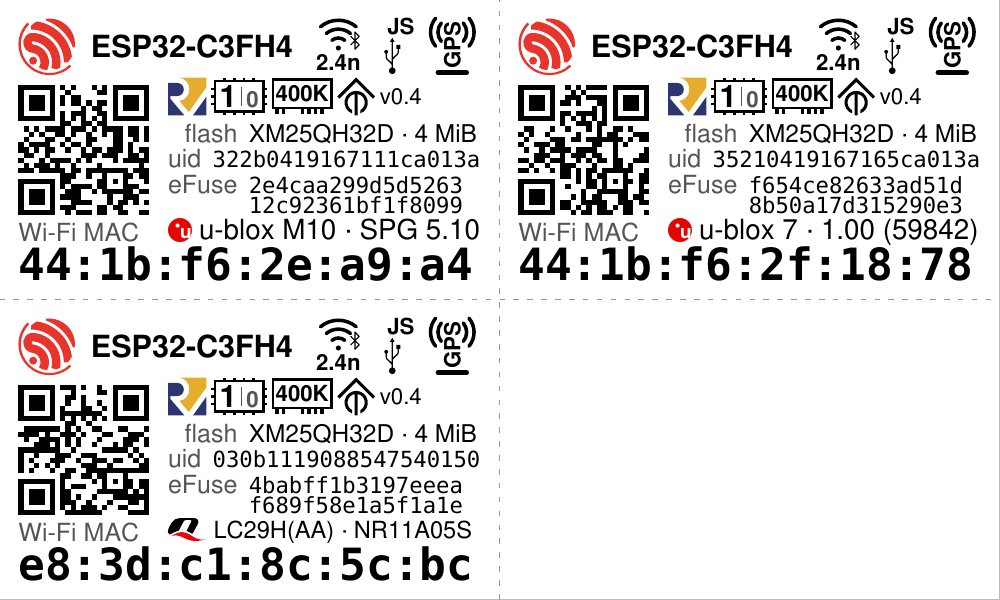
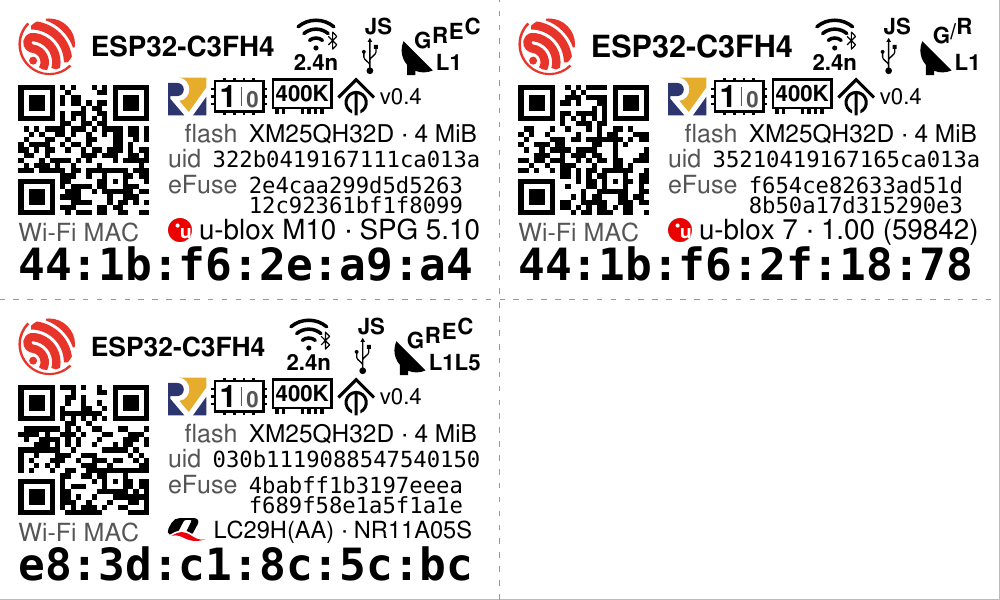
esp32_gps_micro: the dish and its satellites in place of the GPS antenna
The GPS node's header glyph is now the GNSS dish with what the receiver
type tracks: G/R L1 for the u-blox 7 (GPS or GLONASS, never both),
GREC L1 for the M8 and M10, GREC L1L5 for the dual-band LC29H(AA). Each
from its maker's datasheet or product page, quoted in GNSS.

Changed region(s): [[0.093, 0.51, 0.496, 0.63], [0.093, 0.03, 0.496, 0.15], [0.806, 0.03, 0.992, 0.15]]

diff --git a/src/rpi_hwid/esp32_gps_micro.py b/src/rpi_hwid/esp32_gps_micro.py
@@ -9,9 +9,11 @@ MAC in the QR and along the foot, the flash, and both the node's ids --
 with the receiver added, as the 433 MHz node's label adds its radio
 (``rpi_hwid.esp32_433_micro``):
 
-  * an antenna whose mast is "GPS", after the Wi-Fi and USB glyphs. Not a
-    band: the u-blox parts here are L1 receivers but the LC29H(AA) hears
-    L1 and L5, and neither "L1L5" nor "1575" fits the mast;
+  * a satellite dish after the Wi-Fi and USB glyphs, with the
+    constellations the receiver tracks floating above it like satellites
+    and its band at its foot (``micro.glyph_gnss``): "GREC" over "L1" for
+    the M10, "G/R" for the u-blox 7, which tracks GPS or GLONASS but never
+    both, and "GREC" over "L1L5" for the dual-band LC29H(AA);
   * under the ids, a line naming the receiver: its maker's mark, then the
     model and the firmware it reports: "[u-blox] u-blox M10 · SPG 5.10",
     "[Quectel] LC29H(AA) · LC29HAANR11A05S".
@@ -23,6 +25,14 @@ no serial number to print, and the board it sits on is not read: a
 MAX-M10S reports itself as an M10 (its MON-VER carries no MOD= extension),
 so the label names the receiver, never the board.
 
+The dish's constellations and band are not read: the node's firmware does
+not relay the GNSS list a u-blox receiver's MON-VER carries, and the LC29H
+says nothing of it. They are the receiver type's, from its maker's own
+datasheet or product page (``GNSS``, each with its source), and only the
+global constellations are drawn (G GPS, R GLONASS, E Galileo, C BeiDou);
+the regional and augmentation systems (QZSS, NavIC, SBAS) are left to
+the sources, as there is no sky for six letters.
+
 An ESP32 that was never asked about a receiver is not a GPS node, and gets
 only the plain label. One that was asked and has not found its receiver
 yet likewise. One whose read failed is an error that names the host and
@@ -32,6 +42,7 @@ what to do.
 from __future__ import annotations
 
 import dataclasses
+from dataclasses import dataclass
 from typing import TYPE_CHECKING, Any
 
 from reportlab.lib.units import mm
@@ -47,11 +58,46 @@ KIND = "esp32-gps"
 # kinds are printed (rpi_hwid.micro.sticker_rows).
 REPLACES = esp32_micro.KIND
 
-BAND = "GPS"
 
 # The firmware's name for each receiver type (GpsModule) -> its maker.
 MAKER = {"ublox7": "u-blox", "m8": "u-blox", "m10": "u-blox", "lc29h": "Quectel"}
 MAKER_MARK = {"u-blox": "u-blox.png", "Quectel": "quectel.svg"}
+
+
+
+@dataclass(frozen=True)
+class Gnss:
+    """What a receiver type tracks, for the dish: RINEX letters, its band,
+    and where that is said."""
+
+    letters: str
+    band: str
+    source: str
+
+
+# The firmware's receiver types (GpsModule) -> what they track. Each from the
+# maker's own document, quoted, fetched 2026-10-08.
+GNSS = {
+    # NEO-7 data sheet, UBX-13003830 - R07, 1.1: "the u-blox 7 GNSS (GPS,
+    # GLONASS, QZSS and SBAS) engine"; 1.5.2: "GLONASS and GPS signals cannot
+    # be received and tracked simultaneously by u-blox 7 modules". Galileo
+    # needs a flash part's firmware upgrade (1.5.3); the GT-U7 reports ROM
+    # firmware 1.00 (59842). L1 only (GPS L1C/A, GLONASS L1OF).
+    "ublox7": Gnss("G/R", "L1", "NEO-7 data sheet UBX-13003830 R07"),
+    # NEO/LEA-M8T FW3 data sheet, UBX-15025193: "concurrent reception of
+    # GPS/QZSS, GLONASS, BeiDou, and Galileo". L1 signals only.
+    "m8": Gnss("GREC", "L1", "NEO/LEA-M8T FW3 data sheet UBX-15025193"),
+    # MAX-M10S data sheet, UBX-20035208 - R08, 1.3: "The M10 platform
+    # supports concurrent reception of four GNSSs (GPS, GLONASS, Galileo, and
+    # BeiDou)"; signals GPS L1C/A, Galileo E1-B/C, GLONASS L1OF, BeiDou
+    # B1I/B1C: all L1.
+    "m10": Gnss("GREC", "L1", "MAX-M10S data sheet UBX-20035208 R08"),
+    # quectel.com/product/gnss-lc29h, as the Internet Archive captured it on
+    # 2026-05-20: "Multi-GNSS engine supporting GPS, GLONASS, BDS, Galileo,
+    # NavIC and QZSS"; "Concurrent reception of L1 and L5 GNSS band signals";
+    # LC29H (AA): "Dual band (L1+L5), standard precision".
+    "lc29h": Gnss("GREC", "L1L5", "quectel.com LC29H product page, 2026-05-20"),
+}
 
 LINE_H = 2.1 * mm        # the mark at most this tall
 MARK_GAP = 0.5 * mm
@@ -64,6 +110,16 @@ class UnknownReceiverError(ValueError):
 def read_command(host: str, dev: esp32_micro.Esp32Device) -> str:
     return (f"rpi-hwid esp32 --gps {dev.port}` on that host, or "
             f"`rpi-hwid collect --esp32-gps {host}={dev.port} {host}")
+
+
+def gnss_text(host: str, gps: Mapping[str, Any]) -> str:
+    """The dish's text: 'GREC L1L5'."""
+    g = GNSS.get(gps.get("module") or "")
+    if g is None:
+        raise UnknownReceiverError(
+            f"{host}: no constellations are known for a {gps.get('module')!r} receiver; "
+            "add it to rpi_hwid.esp32_gps_micro.GNSS with its source")
+    return f"{g.letters} {g.band}"
 
 
 def maker_for(host: str, mac: str, gps: Mapping[str, Any]) -> str:
@@ -143,7 +199,7 @@ def gps_label(host: str, raw: Mapping[str, Any]) -> MicroLabel | None:
     plain = esp32_micro.esp32_label(host, dev)
     maker = maker_for(host, dev.mac or "", gps)
     return dataclasses.replace(
-        plain, icons=(*plain.icons, Icon("antenna", BAND)),
+        plain, icons=(*plain.icons, Icon("gnss", gnss_text(host, gps))),
         extra=draw_receiver(host, MAKER_MARK[maker], receiver_text(gps)))
 
 

diff --git a/tests/test_esp32_gps_micro.py b/tests/test_esp32_gps_micro.py
@@ -81,6 +81,25 @@ def test_a_receiver_type_with_no_maker_is_fatal_and_says_what_it_saw():
         esp32_gps_micro.maker_for("h", "m", dict(M10["gps"], module="zed-f9p"))
 
 
+def test_the_dish_says_what_each_receiver_type_tracks():
+    """Each from its maker's datasheet or product page (GNSS's sources): the
+    u-blox 7 tracks GPS or GLONASS, never both; the M8, M10 and LC29H the
+    four global constellations; only the LC29H(AA) is dual band."""
+    got = {k: esp32_gps_micro.gnss_text("h", {"module": k}) for k in esp32_gps_micro.MAKER}
+    assert got == {"ublox7": "G/R L1", "m8": "GREC L1", "m10": "GREC L1", "lc29h": "GREC L1L5"}
+    assert [_one(n).icons[-1] for n in (M10, U7, LC29H)] == [
+        Icon("gnss", "GREC L1"), Icon("gnss", "G/R L1"), Icon("gnss", "GREC L1L5")]
+    assert set(esp32_gps_micro.GNSS) == set(esp32_gps_micro.MAKER)
+    for g in esp32_gps_micro.GNSS.values():
+        micro.gnss_parts(f"{g.letters} {g.band}")
+        assert g.source
+
+
+def test_a_receiver_type_with_no_constellations_is_fatal():
+    with pytest.raises(esp32_gps_micro.UnknownReceiverError, match=r"h: .*'zed-f9p'.*GNSS"):
+        esp32_gps_micro.gnss_text("h", {"module": "zed-f9p"})
+
+
 def test_a_failed_gps_read_is_fatal_and_says_how_to_read_it_again():
     dev = dict(M10, gps=None, gps_error="cannot open /dev/ttyACM2: busy")
     with pytest.raises(esp32_micro.Esp32NotReadError, match=r"busy.*--esp32-gps rpiz-gps="):
@@ -111,7 +130,7 @@ def test_the_gps_label_is_the_plain_label_plus_the_receiver():
     assert (m.ident, m.ident_caption, m.title, m.mark, m.subtitle, m.qr_content) == (
         plain.ident, plain.ident_caption, plain.title, plain.mark, plain.subtitle,
         plain.qr_content)
-    assert m.icons == (*plain.icons, Icon("antenna", "GPS"))
+    assert m.icons == (*plain.icons, Icon("gnss", "GREC L1"))
     assert m.rows == plain.rows
     assert m.specs == plain.specs
     assert m.extra is not None
@@ -126,7 +145,7 @@ def test_with_both_kinds_a_gps_node_gets_one_label_not_two():
     for d in REAL["rpiz-gps"]:
         assert titles.count(d["mac"]) == 1
     labelled = [m for r in rows for m in r[4] if m is not None]
-    assert all(Icon("antenna", "GPS") in m.icons for m in labelled)
+    assert all(m.icons[-1].name == "gnss" for m in labelled)
 
 
 @pytest.mark.parametrize("node", [M10, U7, LC29H], ids=["max-m10s", "gt-u7", "lc29h"])

diff --git a/docs/LABELS.md b/docs/LABELS.md
@@ -495,6 +495,7 @@ one it is. The strip's glyphs are registered like the header's:
 | `Icon("zigbee")` | the Zigbee mark, for an IEEE 802.15.4 radio |
 | `Icon("revision", "v0.4")` | a chip's revision, its text alone at 4 pt |
 | `Icon("wifi", "2.4/5 a/b/g/n/ac/ax")` | the Wi-Fi arcs with the band under them, the single-letter 802.11 standards beside them and the two-letter ones (ac, ax) beside the band, bold at 4 pt (a header glyph). With one standard (`"2.4 n"`) it is joined to the band, `2.4n`, and a trailing `+bt` or `+zb` draws the Bluetooth rune or the Zigbee mark in the empty corner right or left of the arcs' dot. The band is always centred under the arcs |
+| `Icon("gnss", "GREC L1L5")` | a satellite dish (`satellite-dish.svg`) with the constellations floating above its mouth like satellites, rising left to right, and the band at its foot, all bold at 4 pt (a header glyph). The constellations are RINEX letters (G R E C J I S), with `/` between two tracked one at a time; the band is `L1`, `L1L2`, `L1L5` or `L1L2L5`. Satellites that would float down into the dish are refused |
 | `Icon("usb", "OJS")` | the USB logo (`usb.svg`, unchanged) turned upright, and on one line over it a letter for each prong, for what the port does: O (OTG) over the round prong, J (JTAG) over the arrow, S (serial) over the square one; a prong with no function leaves its letter's place empty (a header glyph) |
 
 A strip too wide for the band is refused when the label is made.
@@ -693,15 +694,26 @@ An ESP32 wired to a GPS receiver by
 `rpi-hwid esp32 --gps PORT` (or `collect --esp32-gps HOST=PORT`) has read,
 gets the ESP32 label with the receiver added (`--only esp32-gps`):
 
-- **Header:** an antenna whose mast is `GPS`, after the Wi-Fi and USB glyphs.
-  Not a band: the u-blox parts are L1 receivers but the LC29H(AA) hears L1 and
-  L5, and neither `L1L5` nor `1575` fits the mast.
+- **Header:** a satellite dish after the Wi-Fi and USB glyphs, with the
+  constellations the receiver tracks floating above it like satellites and its
+  band at its foot: `GREC` over `L1` for the M10 (and the M8), `G/R` for the
+  u-blox 7, which tracks GPS or GLONASS but never both, and `GREC` over `L1L5`
+  for the dual-band LC29H(AA). The letters are RINEX's: G GPS, R GLONASS,
+  E Galileo, C BeiDou. Only the global constellations are drawn; QZSS, NavIC
+  and SBAS are in the sources, not on the label.
 - **Receiver line:** under the ids, the receiver maker's mark (the u-blox disc,
   the Quectel Q), then the model and the firmware the receiver reports:
   `u-blox M10 · SPG 5.10`, `u-blox 7 · 1.00 (59842)`, `LC29H(AA) · NR11A05S`.
   A Quectel firmware name starts with the model it is for
   (`LC29HAANR11A05S`), which the line already says, so that prefix is dropped;
   whole, it does not fit.
+
+The dish's constellations and band are not read from the receiver: the
+firmware does not relay the GNSS list a u-blox MON-VER carries, and the LC29H
+says nothing of it. They belong to the receiver type, from its maker
+(`esp32_gps_micro.GNSS`, each entry quoting its source): the NEO-7 data sheet
+(UBX-13003830 R07), the NEO/LEA-M8T FW3 data sheet (UBX-15025193), the
+MAX-M10S data sheet (UBX-20035208 R08) and Quectel's LC29H product page.
 
 The flash row and every id stay, as on the 433 MHz node label. The receiver's
 hardware and protocol strings are kept in the document but not printed. The
@@ -712,7 +724,7 @@ Printed with the plain ESP32 kind, a GPS node gets this label instead of the
 plain one. A node that has not found its receiver yet gets the plain label only.
 
 <p>
-<img src="https://raw.githubusercontent.com/mithro/rpi-hwid/main/docs/examples/esp32-gps-sticker.png" alt="Three micro labels from real reads on rpiz-gps: the u-blox M10 node (u-blox disc, u-blox M10 · SPG 5.10), the u-blox 7 node (u-blox 7 · 1.00 (59842)) and the Quectel LC29H(AA) node (Quectel Q, LC29H(AA) · NR11A05S)" width="98%">
+<img src="https://raw.githubusercontent.com/mithro/rpi-hwid/main/docs/examples/esp32-gps-sticker.png" alt="Three micro labels from real reads on rpiz-gps: the u-blox M10 node (dish with GREC over L1; u-blox disc, u-blox M10 · SPG 5.10), the u-blox 7 node (dish with G/R over L1; u-blox 7 · 1.00 (59842)) and the Quectel LC29H(AA) node (dish with GREC over L1L5; Quectel Q, LC29H(AA) · NR11A05S)" width="98%">
 </p>
 
 These are the three C3 SuperMinis on rpiz-gps, read on 2026-10-08
@@ -721,7 +733,7 @@ regenerates the image. What is not read is refused:
 
 - A node whose GPS read failed is an error.
 - So is one that remembers a receiver but did not say its model, and one
-  driving a receiver type with no known maker.
+  driving a receiver type with no known maker or constellations.
 
 Each error names the host and how to read the receiver again. Reading it does
 not reset the node.
